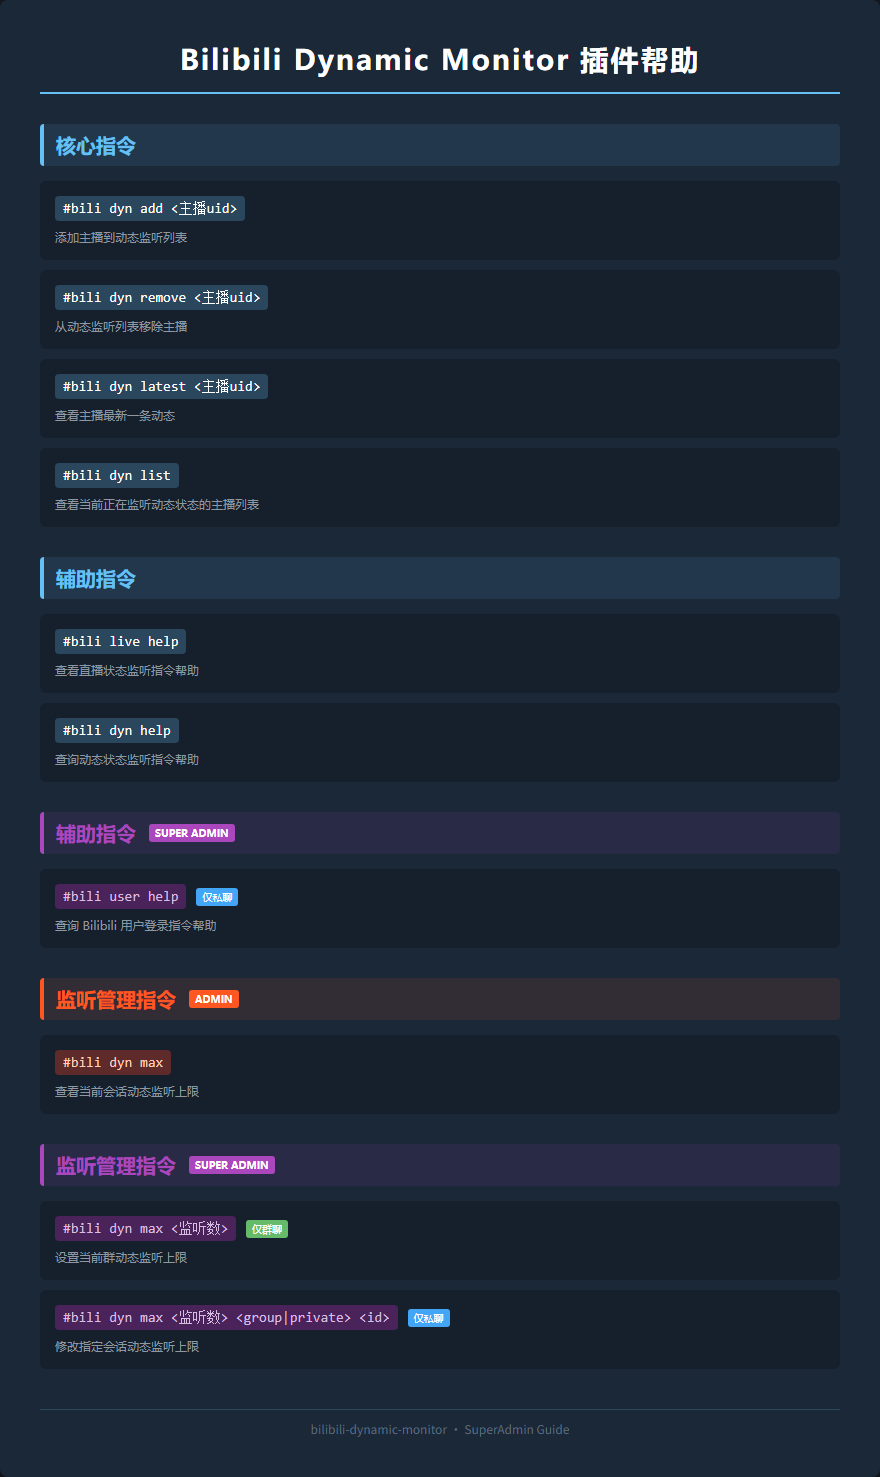
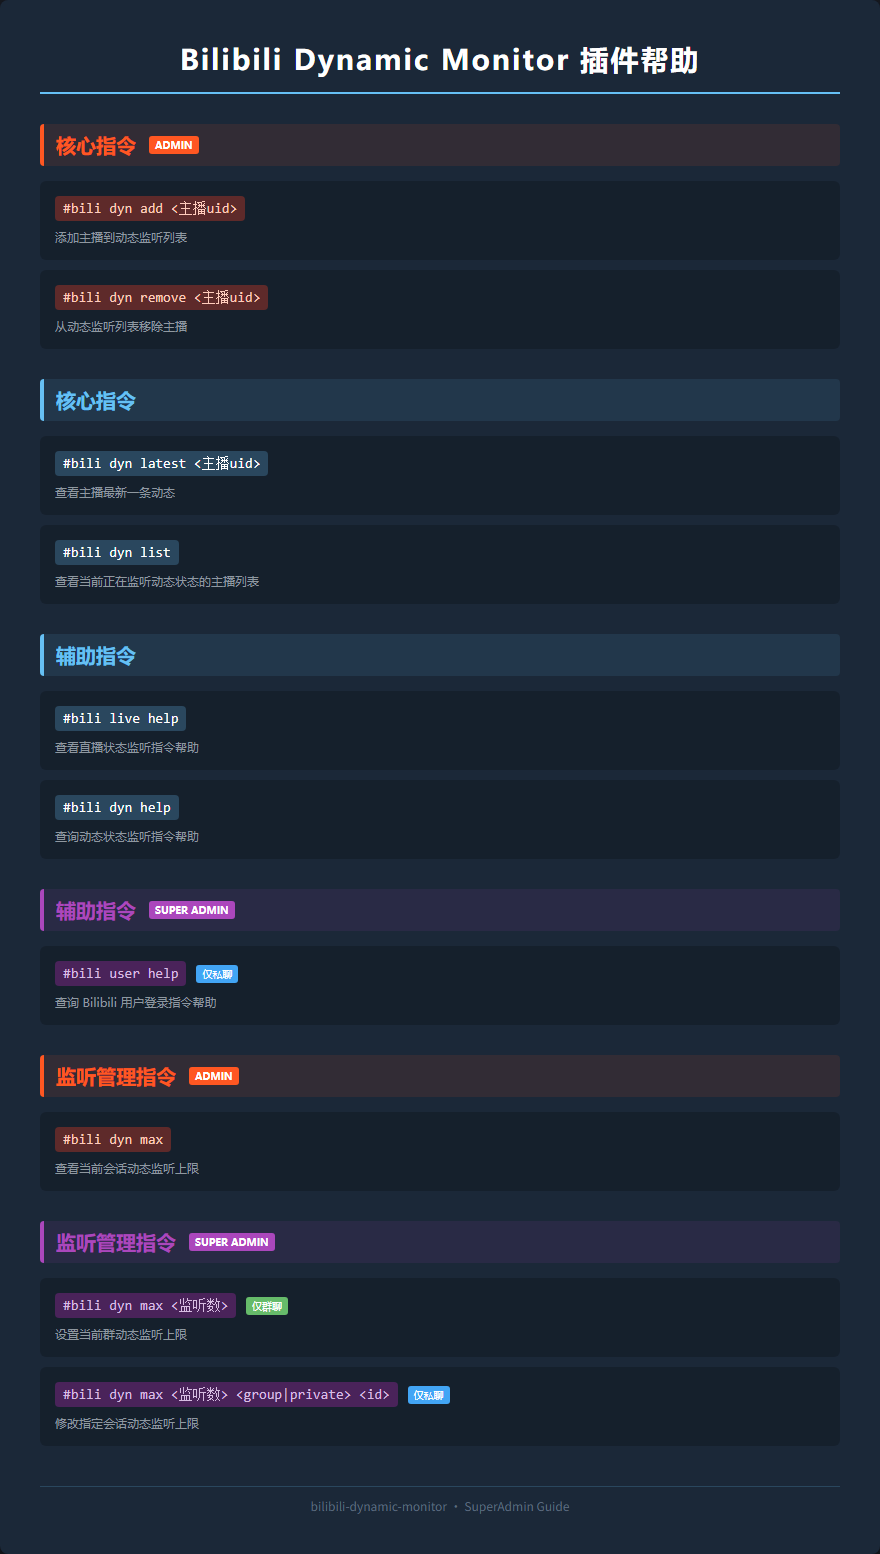
feat: 监听增删指令提权为管理员权限

Changed region(s): [[0.0307, 0.0311, 0.9511, 0.9343], [0.5523, 0.9655, 0.583, 0.9966], [0.3989, 0.9655, 0.4295, 0.9966]]

diff --git a/src/handlers/live/helpText.generated.ts b/src/handlers/live/helpText.generated.ts
@@ -7,7 +7,7 @@ import type { HelpVariant } from '../../utils/helpMessage';
 
 /** 按帮助版本的文本帮助 (图片降级用), Admin 版同时用于私聊用户与群聊超管 */
 export const HELP_TEXT_MAP: Record<HelpVariant, string> = {
-    user: "【Bilibili Live Monitor 插件帮助】\n\n核心指令:\n#bili live add <主播uid>: 添加主播到直播状态监听列表\n#bili live remove <主播uid>: 从直播状态监听列表移除主播\n#bili live list: 查看当前正在监听直播状态的主播列表\n#bili live mention <主播uid>: 订阅主播开播 @ 提醒 [仅群聊]\n#bili live mention: 订阅当前群唯一监听主播的开播 @ 提醒 (仅监听 1 个主播时可用) [仅群聊]\n#bili live unmention <主播uid>: 取消订阅开播 @ 提醒 [仅群聊]\n#bili live unmention: 取消订阅当前群唯一监听主播的开播 @ 提醒 (仅监听 1 个主播时可用) [仅群聊]\n\n辅助指令:\n#bili live help: 查看直播状态监听指令帮助\n#bili dyn help: 查询动态状态监听指令帮助\n\n同接监听指令:\n#bili live online add <主播uid>: 添加主播到同接数监听列表\n#bili live online remove <主播uid>: 从同接数监听列表移除主播\n#bili live online list: 查看当前正在监听同接数的主播列表\n#bili live online show <主播uid>: 查看主播本场直播的同接数变化图表\n#bili live online show: 查看当前监听主播的同接数变化图表 (仅监听 1 个主播时可用)\n",
-    admin: "【Bilibili Live Monitor 插件帮助】\n\n核心指令:\n#bili live add <主播uid>: 添加主播到直播状态监听列表\n#bili live remove <主播uid>: 从直播状态监听列表移除主播\n#bili live list: 查看当前正在监听直播状态的主播列表\n#bili live mention <主播uid>: 订阅主播开播 @ 提醒 [仅群聊]\n#bili live mention: 订阅当前群唯一监听主播的开播 @ 提醒 (仅监听 1 个主播时可用) [仅群聊]\n#bili live unmention <主播uid>: 取消订阅开播 @ 提醒 [仅群聊]\n#bili live unmention: 取消订阅当前群唯一监听主播的开播 @ 提醒 (仅监听 1 个主播时可用) [仅群聊]\n\n辅助指令:\n#bili live help: 查看直播状态监听指令帮助\n#bili dyn help: 查询动态状态监听指令帮助\n\n同接监听指令:\n#bili live online add <主播uid>: 添加主播到同接数监听列表\n#bili live online remove <主播uid>: 从同接数监听列表移除主播\n#bili live online list: 查看当前正在监听同接数的主播列表\n#bili live online show <主播uid>: 查看主播本场直播的同接数变化图表\n#bili live online show: 查看当前监听主播的同接数变化图表 (仅监听 1 个主播时可用)\n\n监听管理指令 [管理员]:\n#bili live max: 查看当前会话直播状态监听上限\n#bili live online max: 查看当前会话直播同接监听上限\n",
-    superAdmin: "【Bilibili Live Monitor 插件帮助】\n\n核心指令:\n#bili live add <主播uid>: 添加主播到直播状态监听列表\n#bili live remove <主播uid>: 从直播状态监听列表移除主播\n#bili live list: 查看当前正在监听直播状态的主播列表\n#bili live mention <主播uid>: 订阅主播开播 @ 提醒 [仅群聊]\n#bili live mention: 订阅当前群唯一监听主播的开播 @ 提醒 (仅监听 1 个主播时可用) [仅群聊]\n#bili live unmention <主播uid>: 取消订阅开播 @ 提醒 [仅群聊]\n#bili live unmention: 取消订阅当前群唯一监听主播的开播 @ 提醒 (仅监听 1 个主播时可用) [仅群聊]\n\n辅助指令:\n#bili live help: 查看直播状态监听指令帮助\n#bili dyn help: 查询动态状态监听指令帮助\n\n辅助指令 [超管]:\n#bili user help: 查询 Bilibili 用户登录指令帮助 [仅私聊]\n\n同接监听指令:\n#bili live online add <主播uid>: 添加主播到同接数监听列表\n#bili live online remove <主播uid>: 从同接数监听列表移除主播\n#bili live online list: 查看当前正在监听同接数的主播列表\n#bili live online show <主播uid>: 查看主播本场直播的同接数变化图表\n#bili live online show: 查看当前监听主播的同接数变化图表 (仅监听 1 个主播时可用)\n\n监听管理指令 [管理员]:\n#bili live max: 查看当前会话直播状态监听上限\n#bili live online max: 查看当前会话直播同接监听上限\n\n监听管理指令 [超管]:\n#bili live max <监听数>: 设置当前群聊直播状态监听上限 [仅群聊]\n#bili live max <监听数> <group|private> <id>: 修改指定会话直播状态监听上限 [仅私聊]\n#bili live online max <监听数>: 设置当前群聊直播同接监听上限 [仅群聊]\n#bili live online max <监听数> <group|private> <id>: 修改指定会话直播同接监听上限 [仅私聊]\n",
+    user: "【Bilibili Live Monitor 插件帮助】\n\n核心指令:\n#bili live list: 查看当前正在监听直播状态的主播列表\n#bili live mention <主播uid>: 订阅主播开播 @ 提醒 [仅群聊]\n#bili live mention: 订阅当前群唯一监听主播的开播 @ 提醒 (仅监听 1 个主播时可用) [仅群聊]\n#bili live unmention <主播uid>: 取消订阅开播 @ 提醒 [仅群聊]\n#bili live unmention: 取消订阅当前群唯一监听主播的开播 @ 提醒 (仅监听 1 个主播时可用) [仅群聊]\n\n辅助指令:\n#bili live help: 查看直播状态监听指令帮助\n#bili dyn help: 查询动态状态监听指令帮助\n\n同接监听指令:\n#bili live online list: 查看当前正在监听同接数的主播列表\n#bili live online show <主播uid>: 查看主播本场直播的同接数变化图表\n#bili live online show: 查看当前监听主播的同接数变化图表 (仅监听 1 个主播时可用)\n",
+    admin: "【Bilibili Live Monitor 插件帮助】\n\n核心指令 [管理员]:\n#bili live add <主播uid>: 添加主播到直播状态监听列表\n#bili live remove <主播uid>: 从直播状态监听列表移除主播\n\n核心指令:\n#bili live list: 查看当前正在监听直播状态的主播列表\n#bili live mention <主播uid>: 订阅主播开播 @ 提醒 [仅群聊]\n#bili live mention: 订阅当前群唯一监听主播的开播 @ 提醒 (仅监听 1 个主播时可用) [仅群聊]\n#bili live unmention <主播uid>: 取消订阅开播 @ 提醒 [仅群聊]\n#bili live unmention: 取消订阅当前群唯一监听主播的开播 @ 提醒 (仅监听 1 个主播时可用) [仅群聊]\n\n辅助指令:\n#bili live help: 查看直播状态监听指令帮助\n#bili dyn help: 查询动态状态监听指令帮助\n\n同接监听指令 [管理员]:\n#bili live online add <主播uid>: 添加主播到同接数监听列表\n#bili live online remove <主播uid>: 从同接数监听列表移除主播\n\n同接监听指令:\n#bili live online list: 查看当前正在监听同接数的主播列表\n#bili live online show <主播uid>: 查看主播本场直播的同接数变化图表\n#bili live online show: 查看当前监听主播的同接数变化图表 (仅监听 1 个主播时可用)\n\n监听管理指令 [管理员]:\n#bili live max: 查看当前会话直播状态监听上限\n#bili live online max: 查看当前会话直播同接监听上限\n",
+    superAdmin: "【Bilibili Live Monitor 插件帮助】\n\n核心指令 [管理员]:\n#bili live add <主播uid>: 添加主播到直播状态监听列表\n#bili live remove <主播uid>: 从直播状态监听列表移除主播\n\n核心指令:\n#bili live list: 查看当前正在监听直播状态的主播列表\n#bili live mention <主播uid>: 订阅主播开播 @ 提醒 [仅群聊]\n#bili live mention: 订阅当前群唯一监听主播的开播 @ 提醒 (仅监听 1 个主播时可用) [仅群聊]\n#bili live unmention <主播uid>: 取消订阅开播 @ 提醒 [仅群聊]\n#bili live unmention: 取消订阅当前群唯一监听主播的开播 @ 提醒 (仅监听 1 个主播时可用) [仅群聊]\n\n辅助指令:\n#bili live help: 查看直播状态监听指令帮助\n#bili dyn help: 查询动态状态监听指令帮助\n\n辅助指令 [超管]:\n#bili user help: 查询 Bilibili 用户登录指令帮助 [仅私聊]\n\n同接监听指令 [管理员]:\n#bili live online add <主播uid>: 添加主播到同接数监听列表\n#bili live online remove <主播uid>: 从同接数监听列表移除主播\n\n同接监听指令:\n#bili live online list: 查看当前正在监听同接数的主播列表\n#bili live online show <主播uid>: 查看主播本场直播的同接数变化图表\n#bili live online show: 查看当前监听主播的同接数变化图表 (仅监听 1 个主播时可用)\n\n监听管理指令 [管理员]:\n#bili live max: 查看当前会话直播状态监听上限\n#bili live online max: 查看当前会话直播同接监听上限\n\n监听管理指令 [超管]:\n#bili live max <监听数>: 设置当前群聊直播状态监听上限 [仅群聊]\n#bili live max <监听数> <group|private> <id>: 修改指定会话直播状态监听上限 [仅私聊]\n#bili live online max <监听数>: 设置当前群聊直播同接监听上限 [仅群聊]\n#bili live online max <监听数> <group|private> <id>: 修改指定会话直播同接监听上限 [仅私聊]\n",
 };

diff --git a/src/handlers/dyn/helpText.generated.ts b/src/handlers/dyn/helpText.generated.ts
@@ -7,7 +7,7 @@ import type { HelpVariant } from '../../utils/helpMessage';
 
 /** 按帮助版本的文本帮助 (图片降级用), Admin 版同时用于私聊用户与群聊超管 */
 export const HELP_TEXT_MAP: Record<HelpVariant, string> = {
-    user: "【Bilibili Dynamic Monitor 插件帮助】\n\n核心指令:\n#bili dyn add <主播uid>: 添加主播到动态监听列表\n#bili dyn remove <主播uid>: 从动态监听列表移除主播\n#bili dyn latest <主播uid>: 查看主播最新一条动态\n#bili dyn list: 查看当前正在监听动态状态的主播列表\n\n辅助指令:\n#bili live help: 查看直播状态监听指令帮助\n#bili dyn help: 查询动态状态监听指令帮助\n",
-    admin: "【Bilibili Dynamic Monitor 插件帮助】\n\n核心指令:\n#bili dyn add <主播uid>: 添加主播到动态监听列表\n#bili dyn remove <主播uid>: 从动态监听列表移除主播\n#bili dyn latest <主播uid>: 查看主播最新一条动态\n#bili dyn list: 查看当前正在监听动态状态的主播列表\n\n辅助指令:\n#bili live help: 查看直播状态监听指令帮助\n#bili dyn help: 查询动态状态监听指令帮助\n\n监听管理指令 [管理员]:\n#bili dyn max: 查看当前会话动态监听上限\n",
-    superAdmin: "【Bilibili Dynamic Monitor 插件帮助】\n\n核心指令:\n#bili dyn add <主播uid>: 添加主播到动态监听列表\n#bili dyn remove <主播uid>: 从动态监听列表移除主播\n#bili dyn latest <主播uid>: 查看主播最新一条动态\n#bili dyn list: 查看当前正在监听动态状态的主播列表\n\n辅助指令:\n#bili live help: 查看直播状态监听指令帮助\n#bili dyn help: 查询动态状态监听指令帮助\n\n辅助指令 [超管]:\n#bili user help: 查询 Bilibili 用户登录指令帮助 [仅私聊]\n\n监听管理指令 [管理员]:\n#bili dyn max: 查看当前会话动态监听上限\n\n监听管理指令 [超管]:\n#bili dyn max <监听数>: 设置当前群动态监听上限 [仅群聊]\n#bili dyn max <监听数> <group|private> <id>: 修改指定会话动态监听上限 [仅私聊]\n",
+    user: "【Bilibili Dynamic Monitor 插件帮助】\n\n核心指令:\n#bili dyn latest <主播uid>: 查看主播最新一条动态\n#bili dyn list: 查看当前正在监听动态状态的主播列表\n\n辅助指令:\n#bili live help: 查看直播状态监听指令帮助\n#bili dyn help: 查询动态状态监听指令帮助\n",
+    admin: "【Bilibili Dynamic Monitor 插件帮助】\n\n核心指令 [管理员]:\n#bili dyn add <主播uid>: 添加主播到动态监听列表\n#bili dyn remove <主播uid>: 从动态监听列表移除主播\n\n核心指令:\n#bili dyn latest <主播uid>: 查看主播最新一条动态\n#bili dyn list: 查看当前正在监听动态状态的主播列表\n\n辅助指令:\n#bili live help: 查看直播状态监听指令帮助\n#bili dyn help: 查询动态状态监听指令帮助\n\n监听管理指令 [管理员]:\n#bili dyn max: 查看当前会话动态监听上限\n",
+    superAdmin: "【Bilibili Dynamic Monitor 插件帮助】\n\n核心指令 [管理员]:\n#bili dyn add <主播uid>: 添加主播到动态监听列表\n#bili dyn remove <主播uid>: 从动态监听列表移除主播\n\n核心指令:\n#bili dyn latest <主播uid>: 查看主播最新一条动态\n#bili dyn list: 查看当前正在监听动态状态的主播列表\n\n辅助指令:\n#bili live help: 查看直播状态监听指令帮助\n#bili dyn help: 查询动态状态监听指令帮助\n\n辅助指令 [超管]:\n#bili user help: 查询 Bilibili 用户登录指令帮助 [仅私聊]\n\n监听管理指令 [管理员]:\n#bili dyn max: 查看当前会话动态监听上限\n\n监听管理指令 [超管]:\n#bili dyn max <监听数>: 设置当前群动态监听上限 [仅群聊]\n#bili dyn max <监听数> <group|private> <id>: 修改指定会话动态监听上限 [仅私聊]\n",
 };

diff --git a/src/handlers/instruction.handler.ts b/src/handlers/instruction.handler.ts
@@ -80,13 +80,16 @@ const nestedInstructionSetMapper: Record<
     live: {
         online: {
             /**
-             * 添加主播到同接数监听列表 (直播监听的附属功能)
+             * 添加主播到同接数监听列表 (直播监听的附属功能, 管理员)
              */
-            add: { handler: addOnlineHandler },
+            add: { handler: addOnlineHandler, requiredRole: 'admin' },
             /**
-             * 从同接数监听列表移除主播
+             * 从同接数监听列表移除主播 (管理员)
              */
-            remove: { handler: removeOnlineHandler },
+            remove: {
+                handler: removeOnlineHandler,
+                requiredRole: 'admin',
+            },
             /**
              * 查看当前正在监听同接数的主播列表
              */
@@ -141,13 +144,13 @@ const instructionSetMapper: Record<
 > = {
     live: {
         /**
-         * 添加直播间监听
+         * 添加直播间监听 (管理员)
          */
-        add: { handler: addLiveHandler },
+        add: { handler: addLiveHandler, requiredRole: 'admin' },
         /**
-         * 移除直播间监听
+         * 移除直播间监听 (管理员)
          */
-        remove: { handler: removeLiveHandler },
+        remove: { handler: removeLiveHandler, requiredRole: 'admin' },
         /**
          * 查看当前监听的主播列表
          */
@@ -191,13 +194,13 @@ const instructionSetMapper: Record<
     },
     dyn: {
         /**
-         * 添加主播动态监听
+         * 添加主播动态监听 (管理员)
          */
-        add: { handler: addDynHandler },
+        add: { handler: addDynHandler, requiredRole: 'admin' },
         /**
-         * 移除主播动态监听
+         * 移除主播动态监听 (管理员)
          */
-        remove: { handler: removeDynHandler },
+        remove: { handler: removeDynHandler, requiredRole: 'admin' },
         /**
          * 查看主播最新一条动态
          */

diff --git a/scripts/generateHelp/cmds/bilibili-live-monitor.ts b/scripts/generateHelp/cmds/bilibili-live-monitor.ts
@@ -6,6 +6,7 @@ export const bilibiliLiveMonitor: Cmd = {
     cmd: [
         {
             groupName: '核心指令',
+            isAdmin: true,
             instructions: [
                 {
                     cmd: '#bili live add <主播uid>',
@@ -15,6 +16,11 @@ export const bilibiliLiveMonitor: Cmd = {
                     cmd: '#bili live remove <主播uid>',
                     desc: '从直播状态监听列表移除主播',
                 },
+            ],
+        },
+        {
+            groupName: '核心指令',
+            instructions: [
                 {
                     cmd: '#bili live list',
                     desc: '查看当前正在监听直播状态的主播列表',
@@ -67,6 +73,7 @@ export const bilibiliLiveMonitor: Cmd = {
         },
         {
             groupName: '同接监听指令',
+            isAdmin: true,
             instructions: [
                 {
                     cmd: '#bili live online add <主播uid>',
@@ -76,6 +83,11 @@ export const bilibiliLiveMonitor: Cmd = {
                     cmd: '#bili live online remove <主播uid>',
                     desc: '从同接数监听列表移除主播',
                 },
+            ],
+        },
+        {
+            groupName: '同接监听指令',
+            instructions: [
                 {
                     cmd: '#bili live online list',
                     desc: '查看当前正在监听同接数的主播列表',

diff --git a/scripts/generateHelp/cmds/bilibili-dynamic-monitor.ts b/scripts/generateHelp/cmds/bilibili-dynamic-monitor.ts
@@ -6,6 +6,7 @@ export const bilibiliDynamicMonitor: Cmd = {
     cmd: [
         {
             groupName: '核心指令',
+            isAdmin: true,
             instructions: [
                 {
                     cmd: '#bili dyn add <主播uid>',
@@ -15,6 +16,11 @@ export const bilibiliDynamicMonitor: Cmd = {
                     cmd: '#bili dyn remove <主播uid>',
                     desc: '从动态监听列表移除主播',
                 },
+            ],
+        },
+        {
+            groupName: '核心指令',
+            instructions: [
                 {
                     cmd: '#bili dyn latest <主播uid>',
                     desc: '查看主播最新一条动态',

diff --git a/README.md b/README.md
@@ -26,19 +26,28 @@
 
 | 指令 | 说明 |
 |------|------|
-| `#bili live add <主播uid>` | 添加主播监听 |
-| `#bili live remove <主播uid>` | 移除主播监听 |
+| `#bili live add <主播uid>` | 添加主播监听（仅管理员） |
+| `#bili live remove <主播uid>` | 移除主播监听（仅管理员） |
 | `#bili live list` | 查看当前监听的主播列表 |
 | `#bili live mention <主播uid>` | 订阅主播开播 @ 提醒（仅群聊） |
 | `#bili live unmention <主播uid>` | 取消订阅开播 @ 提醒（仅群聊） |
 | `#bili live help` | 查看指令帮助 |
 
+### 同接监听
+
+| 指令 | 说明 |
+|------|------|
+| `#bili live online add <主播uid>` | 添加主播到同接数监听列表（仅管理员） |
+| `#bili live online remove <主播uid>` | 从同接数监听列表移除主播（仅管理员） |
+| `#bili live online list` | 查看当前正在监听同接数的主播列表 |
+| `#bili live online show <主播uid>` | 查看主播本场直播的同接数变化图表 |
+
 ### 动态监听
 
 | 指令 | 说明 |
 |------|------|
-| `#bili dyn add <主播uid>` | 添加主播到动态监听列表 |
-| `#bili dyn remove <主播uid>` | 从动态监听列表移除主播 |
+| `#bili dyn add <主播uid>` | 添加主播到动态监听列表（仅管理员） |
+| `#bili dyn remove <主播uid>` | 从动态监听列表移除主播（仅管理员） |
 | `#bili dyn latest <主播uid>` | 查看主播最新一条动态 |
 | `#bili dyn list` | 查看当前监听动态的主播列表 |
 | `#bili dyn help` | 查看动态监听指令帮助 |
